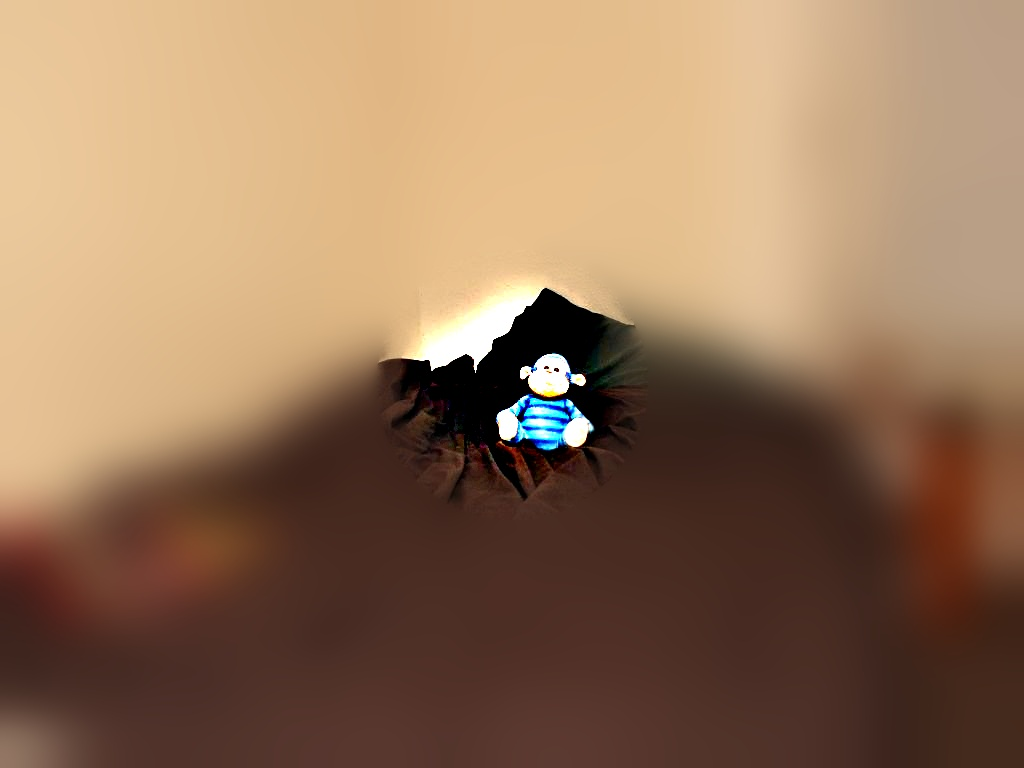
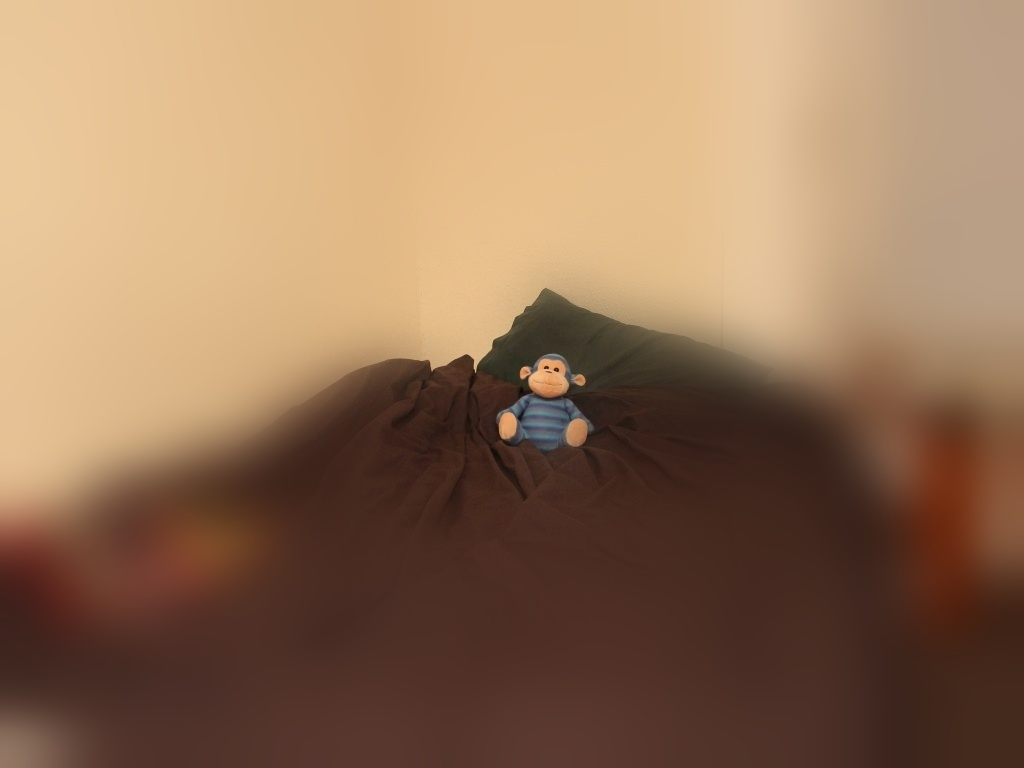
foveat Miguel's images, cannot change foveation point

Changed region(s): [[0.375, 0.3438, 0.625, 0.6562]]

diff --git a/src/laplacian_foveation.hpp b/src/laplacian_foveation.hpp
@@ -39,22 +39,12 @@ public:
 
         imageLapPyr.clear();
 
-//        double max_value=-std::numeric_limits<double>::max();
-
-//        for (int i = 0; i<= image.size().height; ++i){
-//              for (int j = 0; j<= image.size().width; ++j){
-//                if (image.at<double>(i,j) > max_value){
-//                    max_value=image.at<double>(i,j);
-
-//                }
-//            }
-//        }
 
         Mat currentImg = image;
         //// CONVERTER PARA CV_8UC3 PARA REPRESENTAR!!
-        //image.convertTo(image, CV_8UC3);
-        //imshow("IMAGE ", image);
-        //waitKey(500);
+//        image.convertTo(image, CV_8UC3);
+//        imshow("IMAGE ", image);
+//        waitKey(500);
 
 
         for (int l=0; l<levels; l++)
@@ -125,9 +115,13 @@ public:
         {
 
             // Kernel center - image coordinate
-            cv::Mat upper_left_kernel_corner=kernel_size/2.0-center;
+            cv::Mat upper_left_kernel_corner = kernel_size / 2.0 - center;
 
-            //cv::Mat bottom_right_kernel_corner=image_size-center+kernel_size/2.0;
+            //cout << "Conta: " << kernel_size / 2.0 - center << endl;
+            cout << "canto: " << upper_left_kernel_corner.at<int>(0,0) << " " << upper_left_kernel_corner.at<int>(1,0) << endl;
+            cout << "image size: " << image_size.at<int>(0,0) << " " << image_size.at<int>(1,0) << endl;
+
+            cv::Mat bottom_right_kernel_corner = image_size - center + kernel_size /2.0;
                        
 
             // encontrar roi no kernel
@@ -136,6 +130,7 @@ public:
                                      upper_left_kernel_corner.at<int>(1,0),
                                      image_size.at<int>(0,0),
                                      image_size.at<int>(1,0));
+
 
 //            cout << "Kernel roi rect " << kernel_roi_rect << endl;
 //            cout << "Image size : " << image_size.at<int>(0,0) << "\t" << image_size.at<int>(1,0) << endl;
@@ -163,11 +158,11 @@ public:
                 cv::Mat aux;
                 if(i!=0){
                     aux=center/(powf(2,i));
-                    cout << "aux: " << aux << endl;
+                    //cout << "aux (i!=0): " << aux << endl;
                 }
                 else{
                     aux=center;
-                    cout << "aux: " << aux << endl;
+                    //cout << "aux: " << aux << endl;
                 }
 
                 computeRois(aux,kernel_roi_rect,kernel_sizes[i],image_sizes[i]);
@@ -184,9 +179,11 @@ public:
 
                 aux_pyr.convertTo(aux_pyr,CV_64F);
 
-                cv::multiply(aux_pyr,kernels[i](kernel_roi_rect),result_roi,1.0);
 
+                cv::multiply(aux_pyr,kernels[i](kernel_roi_rect),result_roi,1.0);
+                cout << "boa multi" << endl;
                 result_roi.copyTo(aux_pyr);
+
 
                 foveated_image.convertTo(foveated_image,CV_64F);
 
@@ -194,13 +191,13 @@ public:
                 if(i==(levels-1)) {
 
                     add(foveated_image,aux_pyr,foveated_image);
-//                    cout << "tou no if " << endl;
-//                    cout << "Foveated image size" << foveated_image.size() << "\n" << endl;
+                    //cout << "tou no if " << endl;
+                    cout << "Foveated image size" << foveated_image.size() << "\n" << endl;
                 }
 
                 else {
-//                    cout << "tou no else" << endl;
-//                    cout << "Foveated image size" << foveated_image.size() << "\n" << endl;
+                    //cout << "tou no else" << endl;
+                    cout << "Foveated image size" << foveated_image.size() << "\n" << endl;
 
                     // pyrUp( tmp, dst, Size( tmp.cols*2, tmp.rows*2 ) )
                     pyrUp(foveated_image, foveated_image, Size(foveated_image.cols*2,foveated_image.rows*2));
@@ -210,7 +207,7 @@ public:
 
             }
             cout << "FINAL: Foveated image size" << foveated_image.size() << "\n" << endl;
-            //imwrite("files/Foveated/foveated_quarto.jpg", foveated_image);
+            imwrite("files/Foveated/foveated.jpg", foveated_image);
 
             foveated_image.convertTo(foveated_image, CV_8UC3);
             imshow("Foveated image", foveated_image);

diff --git a/src/test_main.cpp b/src/test_main.cpp
@@ -29,7 +29,7 @@ using std::string;
 /*****************************************/
 Mat createFilter(int m, int n, int sigma){
 
-    std::cout << "m:"<< m << "n: "<< n << std::endl;
+
     //Mat kernel(m,n,CV_64F);
     Mat gkernel(m,n,CV_64FC3);
 
@@ -111,11 +111,11 @@ Mat createFilter(int m, int n, int sigma){
 //            gkernel.at<Vec3d>(y,x)[2] *= 20.0;
 
 
-            if(abs(x-xc)<10&&abs(y-yc)<10)
-            std::cout << gkernel.at<Vec3d>(y,x)[0] << " "<< std::endl;
-//            gkernel.at<Vec3f>(x,y)[0] = gkernel.at<Vec3f>(x,y)[0] / abs(gkernel.at<Vec3f>(x,y)[0] );
-//            gkernel.at<Vec3f>(x,y)[1] = gkernel.at<Vec3f>(x,y)[1] / abs(gkernel.at<Vec3f>(x,y)[1] );
-//            gkernel.at<Vec3f>(x,y)[2] = gkernel.at<Vec3f>(x,y)[2] / abs(gkernel.at<Vec3f>(x,y)[2] );
+//            if(abs(x-xc)<10&&abs(y-yc)<10)
+//            std::cout << gkernel.at<Vec3d>(y,x)[0] << " "<< std::endl;
+////            gkernel.at<Vec3f>(x,y)[0] = gkernel.at<Vec3f>(x,y)[0] / abs(gkernel.at<Vec3f>(x,y)[0] );
+////            gkernel.at<Vec3f>(x,y)[1] = gkernel.at<Vec3f>(x,y)[1] / abs(gkernel.at<Vec3f>(x,y)[1] );
+////            gkernel.at<Vec3f>(x,y)[2] = gkernel.at<Vec3f>(x,y)[2] / abs(gkernel.at<Vec3f>(x,y)[2] );
 
          }
     }
@@ -129,11 +129,11 @@ Mat createFilter(int m, int n, int sigma){
 //            cout << "\t" <<endl;
 //        }
 //    }
-    ////CONVERTER PARA REPRESENTAR
-    //gkernel.convertTo(gkernel, CV_8UC3);
-    imshow("Show kernel", gkernel.t());
-    waitKey(1000);
-    //gkernel.convertTo(gkernel, CV_64FC3);
+
+//    //gkernel.convertTo(gkernel, CV_8UC3);
+//    imshow("Show kernel", gkernel);    // tirei o transposto
+//    waitKey(1000);
+//    //gkernel.convertTo(gkernel, CV_64FC3);
 
     return gkernel;
 }
@@ -147,12 +147,12 @@ Mat createFilter(int m, int n, int sigma){
 int main(int argc, char** argv){
 
     // Initialization
-    int sigma = 100; // Fovea size: standard deviation
+    int sigma = 50; // Fovea size: standard deviation  20 - 40 - 60
     int levels = 5; // number of pyramid levels
 
     // read one image
     //string file = string(argv[1]) + "ILSVRC2012_val_00000003.JPEG";   // load image
-    string file = string(argv[1]) + "quarto.jpg";
+    string file = string(argv[1]) + "wc.jpg";
 
     cv::Mat image = imread(file, 1);		 // Read image
 
@@ -171,8 +171,8 @@ int main(int argc, char** argv){
         float aux=powf(2, l);
         //double aux=pow(2, l);
 
-        int m = height/aux;
-        int n = width/aux;
+        int m = height/aux; // height*4/aux;
+        int n = width/aux;  // width*4/aux;
         cout << "m " << m << "\t" << "n " << n << endl;
 
         // Build Kernel
@@ -187,7 +187,7 @@ int main(int argc, char** argv){
     cv::Mat center(2,1,CV_64F);
     center.at<double>(0,0)= height*0.5;
     center.at<double>(1,0)= width*0.5;
-    cout << "\n Centro: " << center << "\n" << endl;
+    cout << "\n O meu centro é: " << center << "\n" << endl;
 
     // Foveate
     pyramid.foveate(center);
